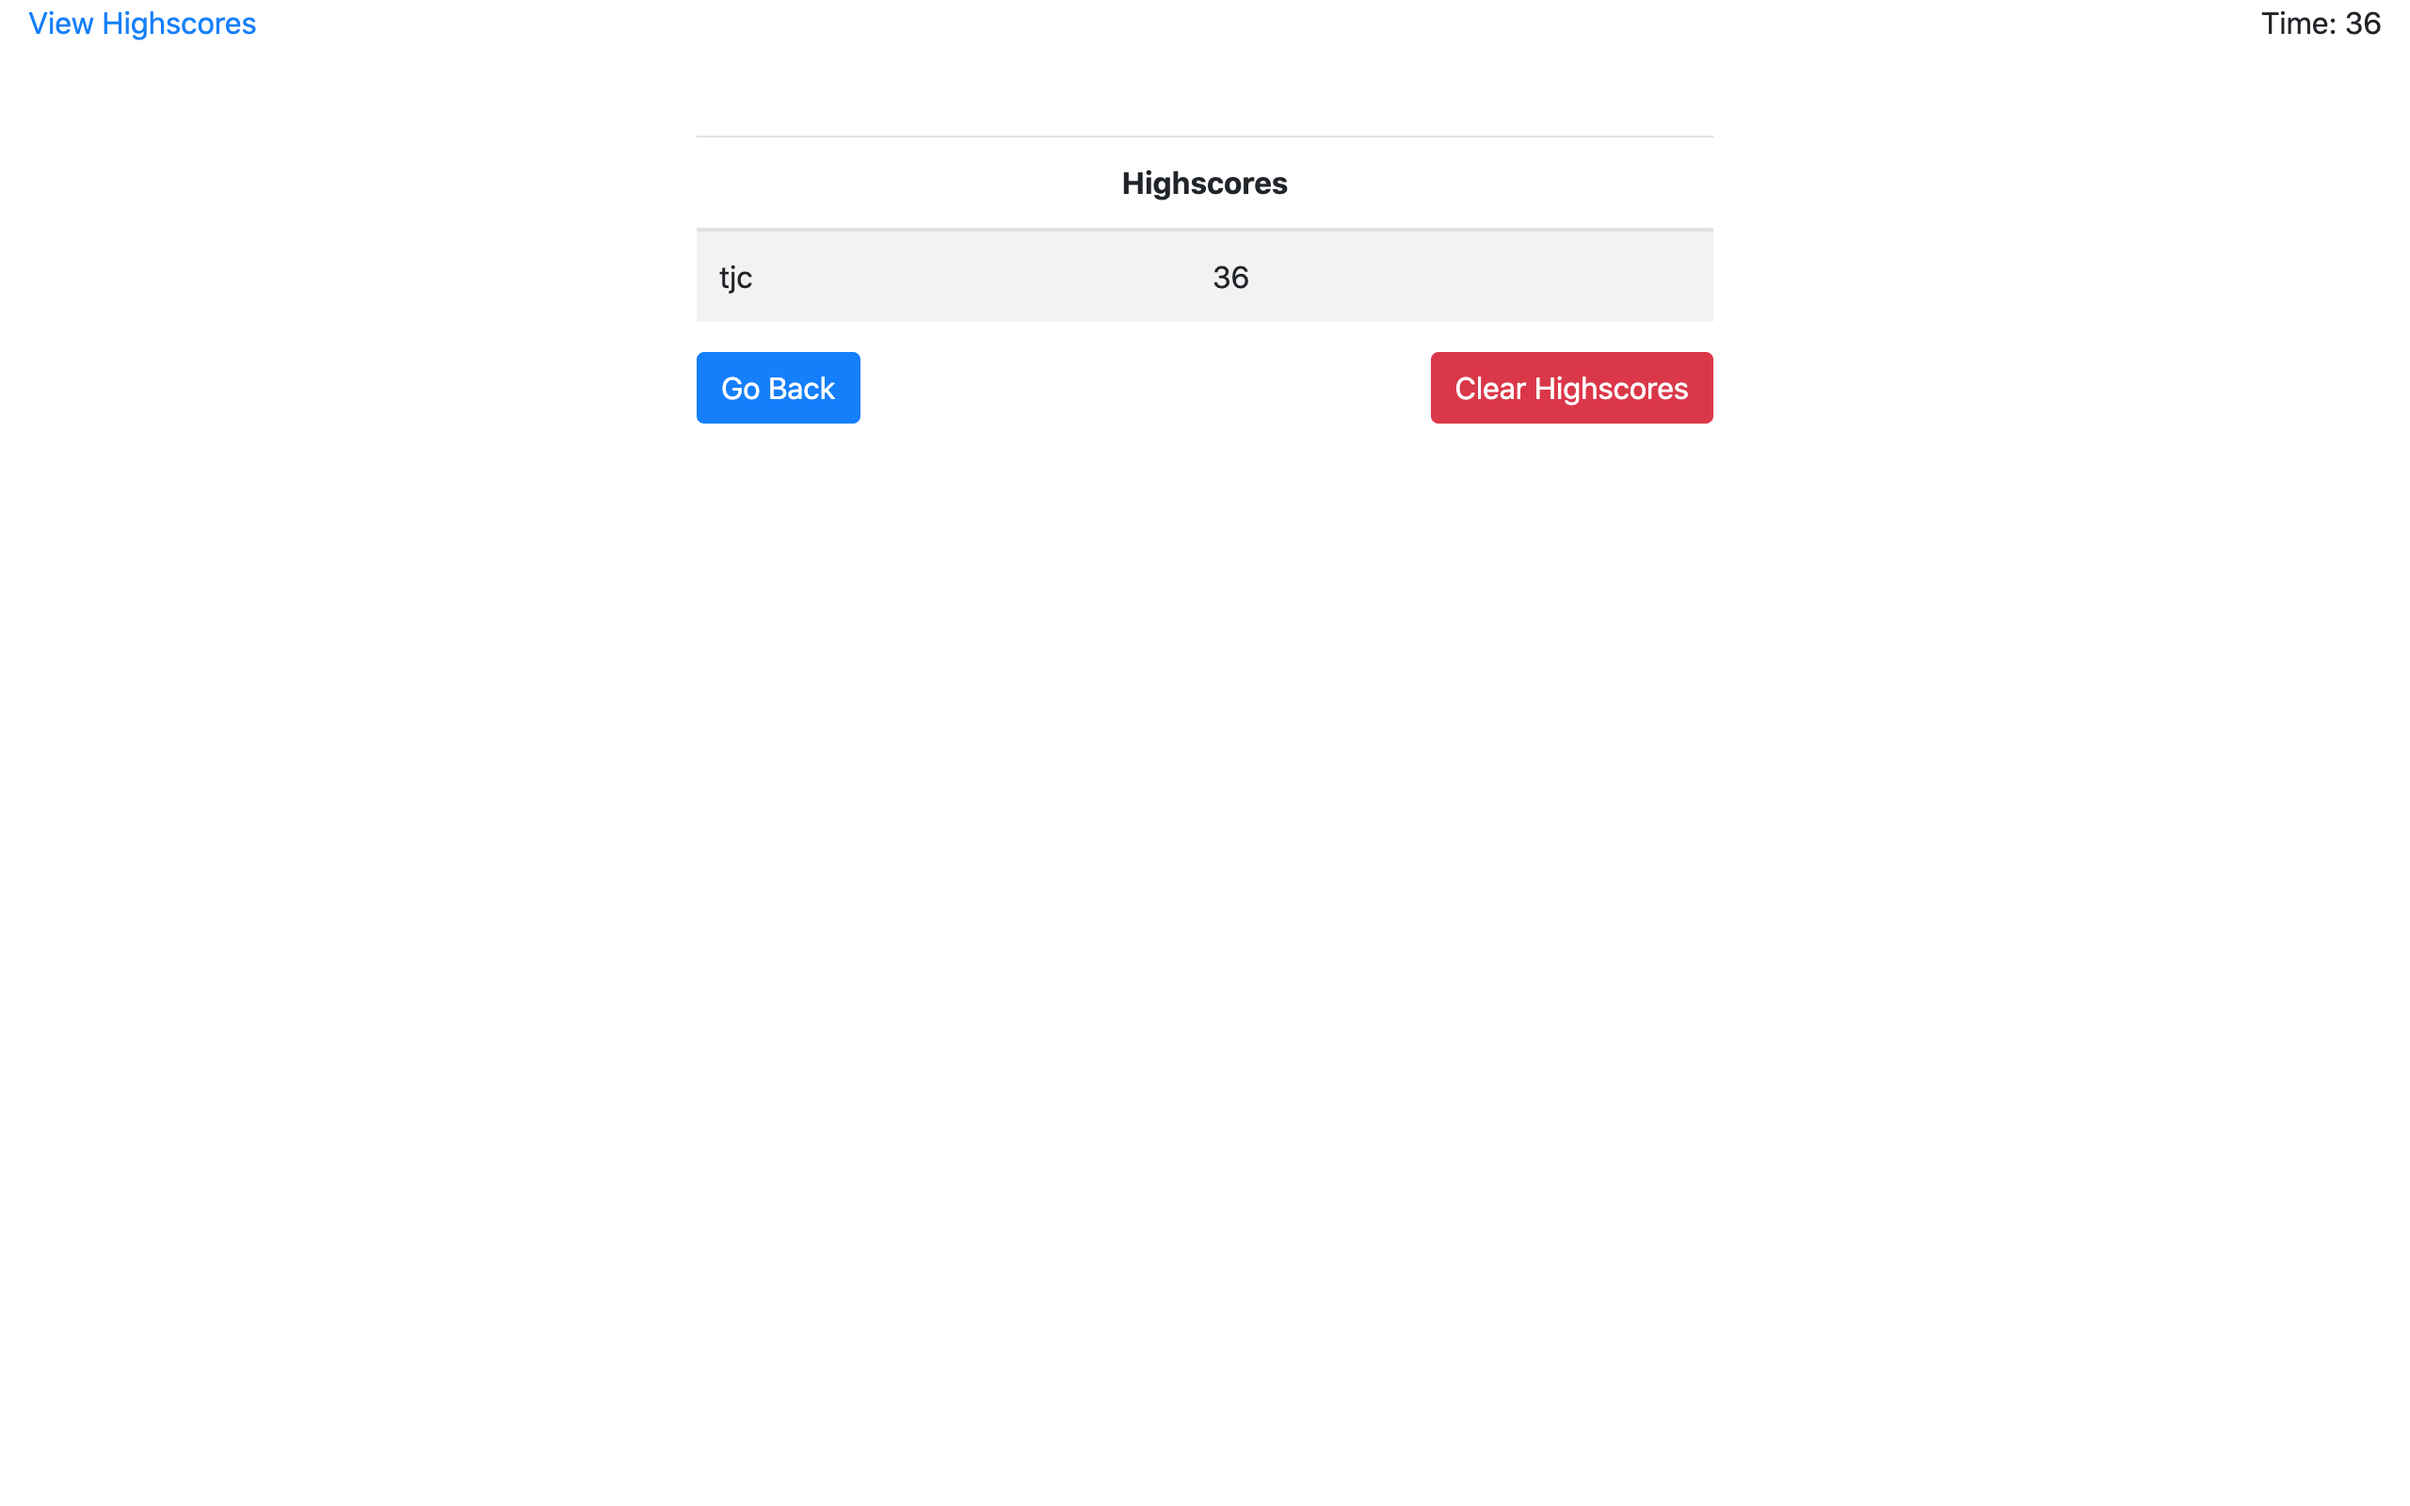
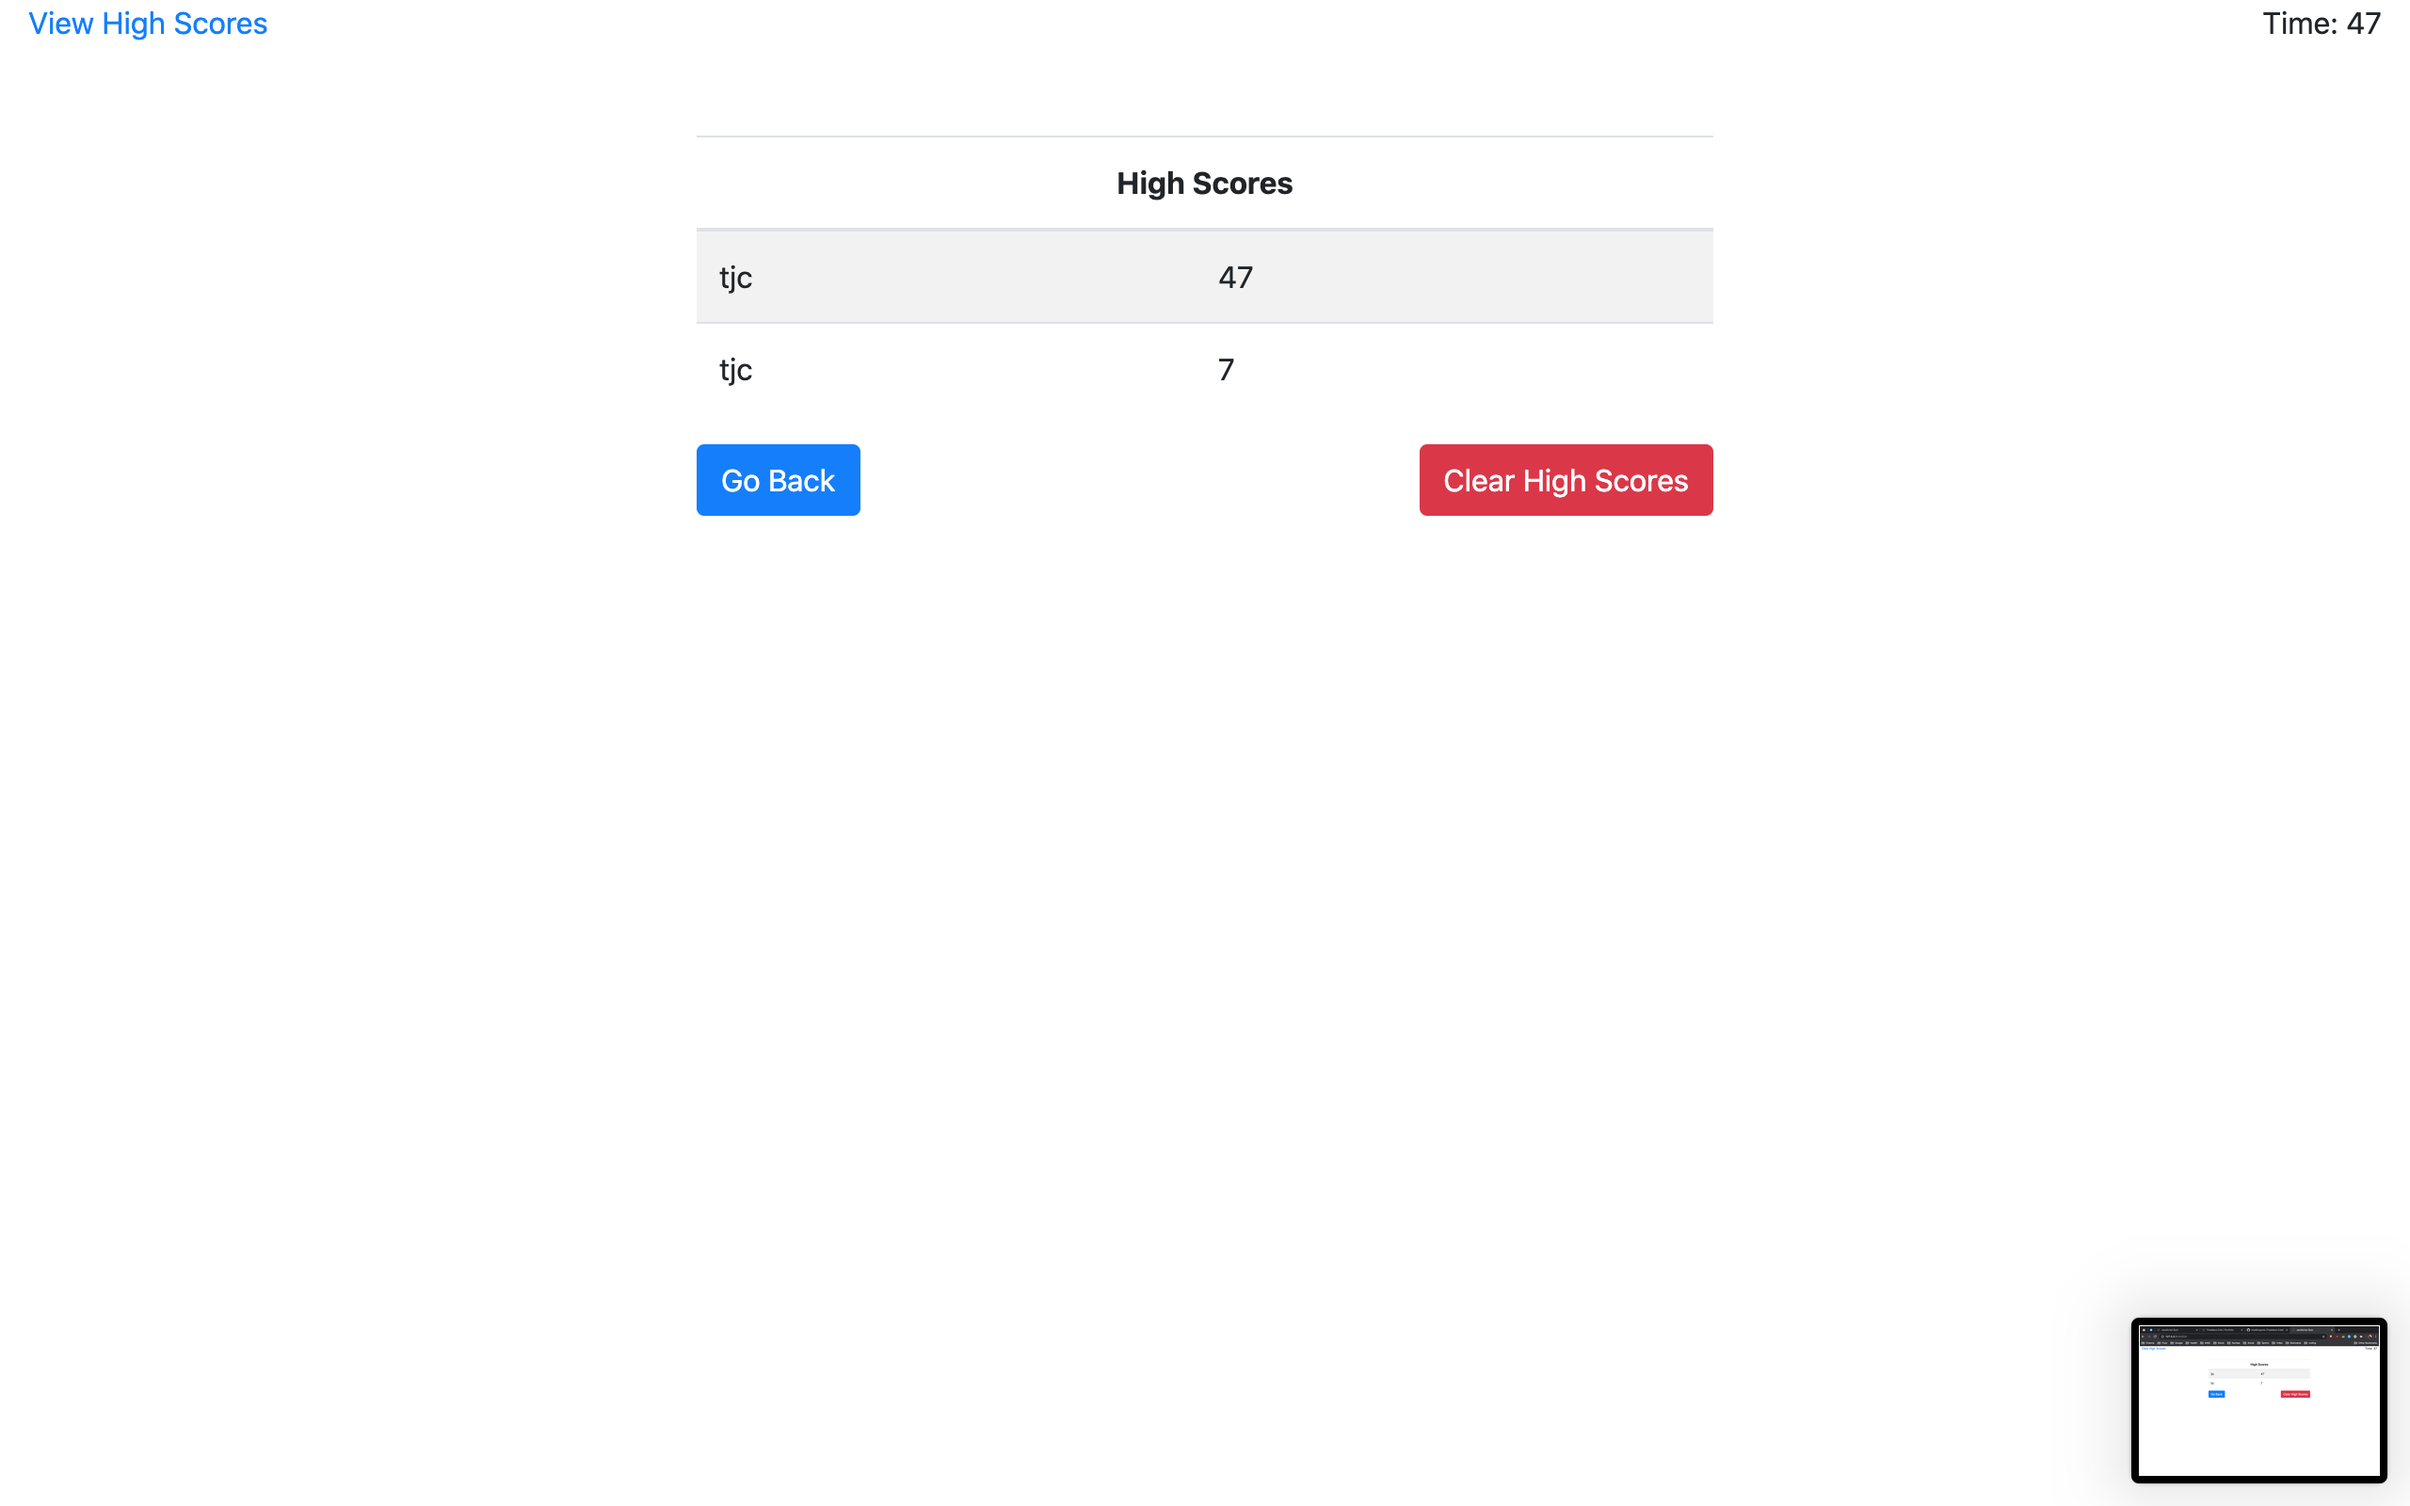
correct spelling of high scores

diff --git a/index.html b/index.html
@@ -20,8 +20,8 @@
   <body>
     <!-- Persistent Header -->
     <header class="container-fluid mb-5">
-      <!-- View HighScores -->
-      <a id="highscore-link" href="#">View Highscores</a>
+      <!-- View High Scores -->
+      <a id="highscore-link" href="#">View High Scores</a>
       <!-- Timer (right side of page) -->
       <p id="timer" class="float-right">Time: 0</p>
     </header>
@@ -109,11 +109,11 @@
           <table class="table table-striped">
             <thead>
               <tr>
-                <th class="text-center" colspan="2">Highscores</th>
+                <th class="text-center" colspan="2">High Scores</th>
               </tr>
             </thead>
             <tbody id="high">
-              <!-- where highscores go -->
+              <!-- where high scores go -->
             </tbody>
           </table>
           <!-- Go Back/Home Button -->
@@ -122,7 +122,7 @@
           </button>
           <!-- Clear High Scores-->
           <button id="clear" type="button" class="btn btn-danger float-right">
-            Clear Highscores
+            Clear High Scores
           </button>
         </div>
       </div>

diff --git a/script.js b/script.js
@@ -72,8 +72,8 @@ const questions = {
   },
   // Elements
   timerEl = document.getElementById("timer"),
-  scoresEl = document.getElementsByClassName("scores"), // array of highscores
-  highEl = document.getElementById("high"), // where highscores go
+  scoresEl = document.getElementsByClassName("scores"), // array of high scores
+  highEl = document.getElementById("high"), // where high scores go
   feedbackEl = document.getElementById("feedback"),
   lastFeedbackEl = document.getElementById("last-feedback"),
   highscoreLinkEl = document.getElementById("highscore-link"),

diff --git a/README.md b/README.md
@@ -9,7 +9,7 @@ A timed quiz of JavaScript coding questions using the HTML DOM API.
 This page features:
 
 - [x] dynamically updating HTML according to how the user interacts with the page.
-- [x] highscores saved in the browser's localstorage so that user can track progress or compare with friends.
+- [x] high scores saved in the browser's localstorage so that user can track progress or compare with friends.
 - [x] a fun way to test & improve your JavaScript knowledge.
 
 ## Table of Contents
@@ -31,10 +31,10 @@ No installation necessary! Try it out yourself by [clicking here](https://thadki
    1. Incorrect answers subtract 10 seconds from the clock.
    1. Your final score will be how much time is remaining on the clock when you answer the final question.
    1. If you run out of time prior to answering all questions, your final score will be 0.
-1. Enter your initials to save your score to the highscore table
-1. You can clear highscores at anytime by clicking the "clear highscores" button.
+1. Enter your initials to save your score to the high score table
+1. You can clear high scores at anytime by clicking the "clear high scores" button.
 
-![highscore page](./Assets/02_highscores.png)
+![high score page](./Assets/02_highscores.png)
 
 ## Additional Features
 
